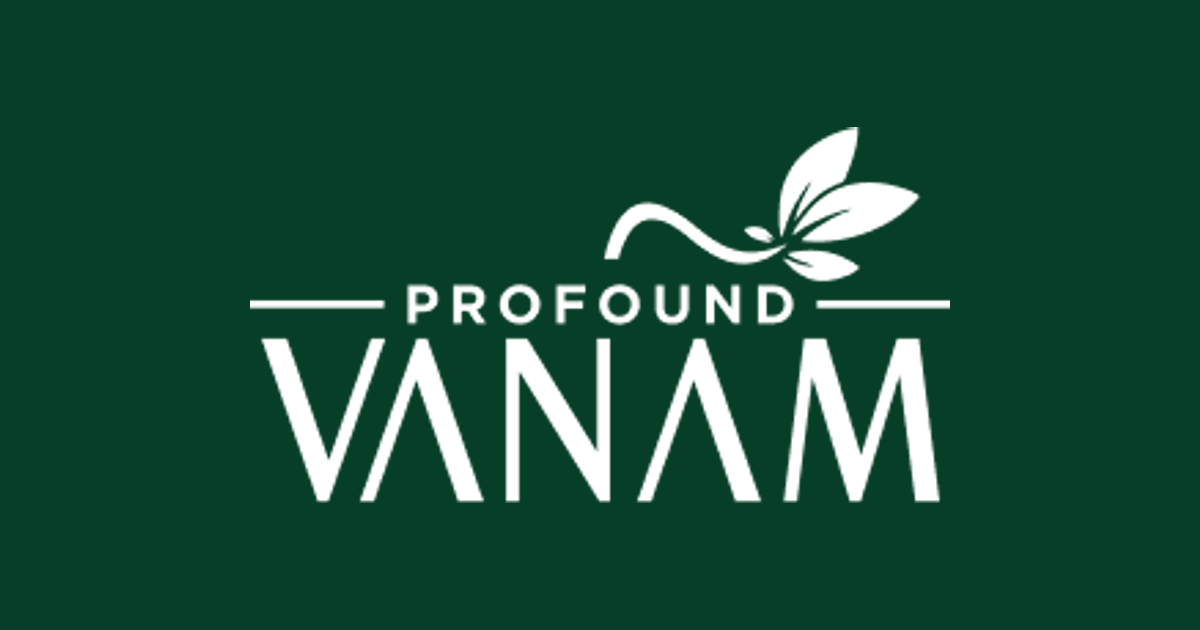
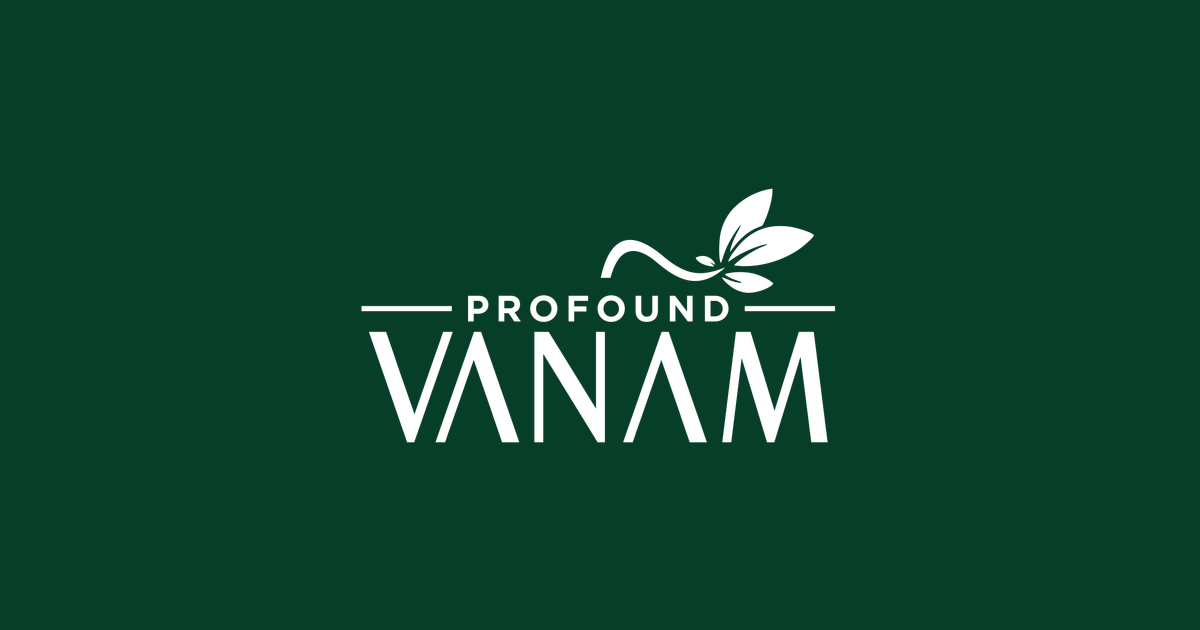
Fix OG image pixelation by using high-quality Lanczos3 downsampling to PNG

Changed region(s): [[0.2158, 0.2111, 0.8017, 0.8143]]

diff --git a/index.html b/index.html
@@ -12,7 +12,7 @@
     <meta property="og:title" content="Profound Vanam | Premium Residences in Bachupally, Hyderabad" />
     <meta property="og:description" content="A landmark sanctuary of care-led living featuring 7 acres of gated community, 4 towers with G+31 floors, and thoughtfully planned residences." />
     <meta property="og:url" content="https://profoundvanam.co.in/" />
-    <meta property="og:image" content="https://profoundvanam.co.in/og-image.jpg" />
+    <meta property="og:image" content="https://profoundvanam.co.in/og-image.png" />
     <meta property="og:image:width" content="1200" />
     <meta property="og:image:height" content="630" />
     
@@ -20,7 +20,7 @@
     <meta name="twitter:card" content="summary_large_image" />
     <meta name="twitter:title" content="Profound Vanam | Premium Residences in Bachupally, Hyderabad" />
     <meta name="twitter:description" content="A landmark sanctuary of care-led living featuring 7 acres of gated community, 4 towers with G+31 floors, and thoughtfully planned residences." />
-    <meta name="twitter:image" content="https://profoundvanam.co.in/og-image.jpg" />
+    <meta name="twitter:image" content="https://profoundvanam.co.in/og-image.png" />
   </head>
   <body>
     <div id="root"></div>
